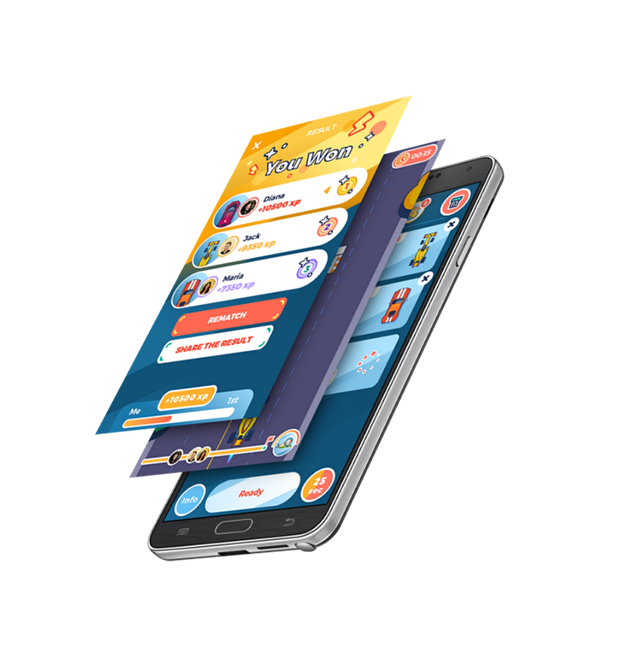
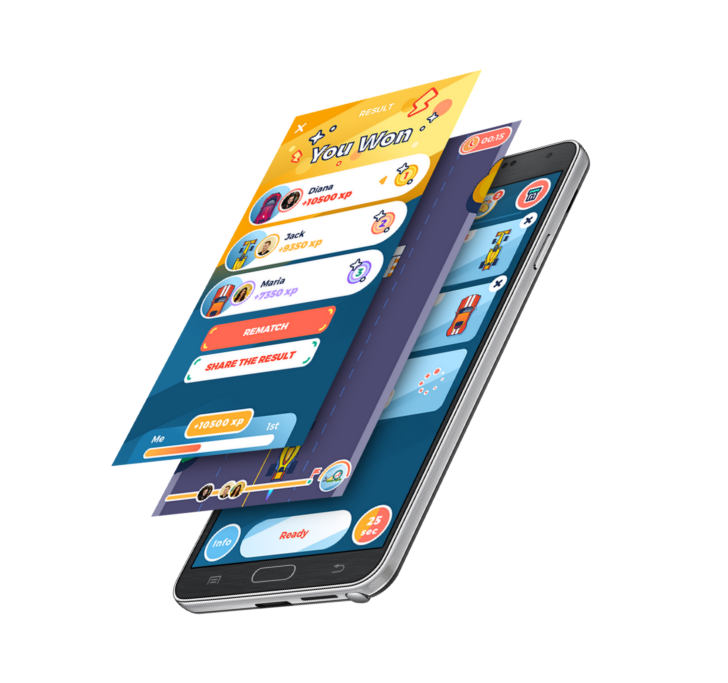
images set

Changed region(s): [[0.1527, 0.0915, 0.8248, 0.9146], [0.4582, 0.5183, 0.4887, 0.5488]]

diff --git a/styles/Ourservices.module.css b/styles/Ourservices.module.css
@@ -41,6 +41,7 @@
 
 .imgapost img {
   position: absolute;
+  max-width: 100%;
 }
 
 .imgapost1 {
@@ -54,7 +55,7 @@
 }
 
 .bottom4 {
-  width: 100%;
+  max-width: 100%;
   height: auto;
   animation: buger-bottom;
   animation-delay: 1ms;
@@ -77,18 +78,16 @@
 @media screen and (max-width: 1399px) {
   .imgapost img {
     position: absolute;
-    width: 100%;
     left: 0;
     right: 0;
     margin: 0 auto;
-    top: 25px;
+    top: -20px;
   }
 }
 
 @media screen and (min-width: 1400px) {
   .imgapost img {
     position: absolute;
-    width: 90%;
     left: 0;
     right: 0;
     margin: 0 auto;
@@ -112,7 +111,6 @@
 
   .imgapost img {
     position: unset;
-    width: 75%;
     left: 0;
     right: 0;
     margin: 0 auto;
